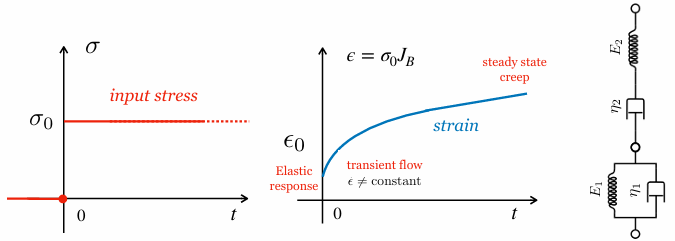
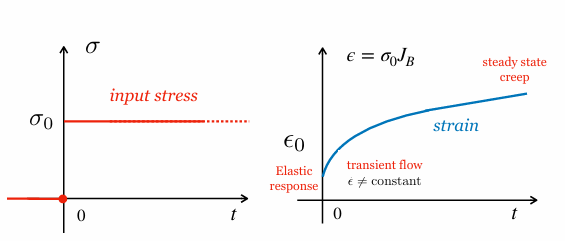
fixes; new images

diff --git a/main.tex b/main.tex
@@ -1667,7 +1667,7 @@ Il termine deriva dal greco e indica lo studio di flussi e deformazioni dei mate
 
 \noindent
 Il concetto di corpo rigido fu introdotto da Archimede, ma trova la sua formalizzazione matematica con Newton nel 1687.
-Hooke definì le basi dell'elasticità (1678), mentre Bernoulli ed Eulero iniziarono a descrivere i fluidi invisicidi (1800s)
+Hooke definì le basi dell'elasticità (1678), mentre Bernoulli ed Eulero iniziarono a descrivere i fluidi invisicidi (1800s).
 Successivamente furono studiati fluidi e materiali viscoelastici, fino all'avvento della reologia nel 1929.\\
 
 \noindent
@@ -1719,7 +1719,7 @@ La forma generale delle equazioni costitutive mette in relazione le quantità ci
 dove $R$ rappresenta la funzione reologica, $\varepsilon$ lo strain, $\sigma$ lo stress ed $\{M\}$ il vettore di parametri materiali.
 Queste relazioni si ottengono da evidenze sperimentali e da principi fisici.
 La classificazione di un materiale in classi reologiche (come elstico, plastico o viscoso) riflette il tipo di equazione reologica che lo descrive.
-si distinguono diversi comportamenti reologici.
+Si distinguono diversi comportamenti reologici.
 
 \begin{table}[h]
     \centering
@@ -1873,6 +1873,8 @@ Il comportamento elastico è valido esclusivamente al di sotto di una sollecitaz
 Superata questa soglia, il materiale devia dalla linearità; per cui questa legge non spiega tutta la reologia.
 La "costante" di proporzionalità $E$ (modulo di Young) in realtà aumenta con la pressione e diminuisce con la temperatura.
 Il corpo elastico non subisce rilassamento.\\
+
+\noindent
 La litosfera superiore può essere modellata come un corpo elastico per carichi superficiali con durata dell'ordine di milioni di anni, sebbene la sua risposta reale sia viscoelastica.
 Al contrario, tutta la Terra si comporta elasticamente (con imperfezioni) per carichi di breve durata (dai secondi alle ore),
 il che rende la sismologia adatta ad un'analisi di tipo elastico.\\
@@ -2160,7 +2162,7 @@ Tale principio risulta evidente applicando le trasformate di Laplace.\\
 
 \noindent
 $\sigma (t) = \sigma_0 H(t) \Longrightarrow \tilde{\sigma} = \sigma_0 / s$.
-Si ricava la \textit{creep compliance}, cioè lo strain per unità di stress in un esperimento di creep, che dipende dalla natura reologica del corpo:
+Si ricava la \textbf{creep compliance} $\tilde J_M$, cioè lo strain per unità di stress in un esperimento di creep, che dipende dalla natura reologica del corpo:
 
 \begin{equation}
     \frac{\tilde{\varepsilon}}{\sigma_0} = \frac{1}{s \tilde{E}_M} \equiv \tilde{J}_M
@@ -2260,6 +2262,8 @@ Dall'antitrasformata di Laplace di questa relazione, si ottiene:
 
 \noindent
 \textbf{Tempo di rilassamento di Maxwell della Terra}\\
+
+\noindent
 Il tempo di rilassamento di Maxwell della Terra è così dato dalla stima della viscosità derivante dagli studi del rimbalzo post-glaciale e dall'elasticità data dal modello PREM:
 
 \begin{equation}
@@ -2274,6 +2278,7 @@ Si può così definire il \textbf{numero di Deborah} (dal nome della profetessa 
 
 \begin{equation}
     De = \frac{\tau_{rel}}{\tau_{exp}} = \frac{\text{tempo di rilassamento}}{\text{tempo scala dell'esperimento}}
+    \label{eq:deborah}
 \end{equation}
 
 \noindent
@@ -2320,7 +2325,7 @@ Vale il principio di corrispondenza della viscoelasticità lineare, come nel cas
 \textbf{Creep test per un corpo di Kelvin-Voigt}\\
 
 \noindent
-$\sigma(t) = \sigma_0 H(t) \Longrightarrow \tilde{\sigma} / s$.
+$\sigma(t) = \sigma_0 H(t) \Longrightarrow \tilde{\sigma} = \sigma_0 / s$.
 La creep compliance del corpo di Kelvin-Voigt è data da:
 
 \begin{equation}
@@ -2330,7 +2335,7 @@ La creep compliance del corpo di Kelvin-Voigt è data da:
 \noindent Sostituendo, si ha:
 
 \begin{equation}
-    \tilde{E}_K = \eta \left( s + \frac{1}{\tau_K} \right) \Longrightarrow \tilde{J}_K = \frac{1}{\eta} \cdot \frac{1}{s} \cdot \left( \frac{1}{s + 1/\tau_K} \right)
+    \tilde{E}_K = \eta \left( s + \frac{1}{\tau_K} \right) \Longrightarrow \tilde{J}_K = \frac{1}{\eta s} \left( \frac{1}{s + 1/\tau_K} \right)
 \end{equation}
 
 \noindent Per ottenere la creep compliance nel dominio temporale, è necessario applicare il teorema di convoluzione al prodotto di due trasformate di Laplace.
@@ -2517,9 +2522,16 @@ con $n$ un intero o $n=\infty$.
 Questo modello tiene conto del fatto che il tempo di rilassamento non avviene ad un singolo tempo.
 Prevede una risposta iniziale elastica, un periodo di transizione ed una fase stazionaria.\\
 
-\noindent
+\subsection{\textcolor{colore7}{Modello di Burgers}}
+
 Il \textbf{modello di Burgers} ($M - KV$) mostra un comportamento iniziale elastico, seguito da un creep transiente e da uno smorzamento delle vibrazioni su scale temporali ridotte, mentre su quelle più lunghe tende a mostrare un comportamento viscoelastico lineare.
-Si utilizza spesso per modellare la reologia del mantello.\\
+Si utilizza spesso per modellare la reologia del mantello.
+
+\begin{figure}[h!]
+    \centering
+    \includegraphics[width=0.5\linewidth]{fig/burgers_body.png}
+    \caption{Analogo meccanico del modello di Burgers.}
+\end{figure}
 
 \noindent
 \textbf{Creep test per il modello di Burgers}\\
@@ -2559,7 +2571,6 @@ con $G_1$, $G_2$, $\tau_1$ e $\tau_2$ costanti positive determinate dai parametr
     \label{fig:burgers_relaxation}
 \end{figure}
 
-\newpage
 \noindent
 \textbf{Loading/unloading test per il modello di Burgers}\\
 
@@ -2866,7 +2877,7 @@ Diverse combinazioni di reologia e glaceoisostasia fittano le stesse osservazion
 
 \subsection{\textcolor{colore7}{Motivazione}}
 
-La superficie terrestre è sottoposta al carico della massa dell'atmosfera, degli oceani e dei continenti; questi possono variare nel tempo e causare una risposta elastica o viscoelastica, a seconda del numero di Deborah.
+La superficie terrestre è sottoposta al carico della massa dell'atmosfera, degli oceani e dei continenti; questi possono variare nel tempo e causare una risposta elastica o viscoelastica, a seconda del numero di Deborah (Eq. \ref{eq:deborah}).
 Terremoti, eruzioni vulcaniche, moti mareali e frane possono variare il carico sulla superficie.\\
 
 \noindent
@@ -2895,9 +2906,10 @@ dove $P$ rappresenta il carico e $R = \sqrt{r^2 + z^2}$.
 \end{figure}
 
 \noindent
-In questo modello compressibile, la componente verticale è sempre positiva,
-quindi, con un sistema di riferimento con asse $z$ come quello in Figura \ref{fig:boussinesq}, la componente verticale è diretta verso il basso.
-La deformazione in direzione radiale è negativa, quindi avviene verso il centro.\\
+Si calcolano le deformazioni sulla superficie $(z = 0)$ in questo modello compressibile (Figura \ref{fig:boussinesq}).
+La componente verticale $u_z$ è sempre positiva, quindi diretta verso il basso: non c'è nessun \textit{forebulge}, ovvero una deformazione verso l'alto.
+La deformazione in direzione radiale $u_r$ è negativa, quindi avviene verso il centro.
+Per $x \rightarrow 0$ c'è una singolarità.\\
 
 \noindent
 Il problema di Kelvin coinvolge un carico puntiforme su corpo elastico infinito;
@@ -2918,7 +2930,7 @@ Coi modelli di Farrell e di Boussinesq si modella il rimbalzo post-glaciale.
 \subsection{\textcolor{colore7}{Topografia, livello marino e distribuzione di acqua e ghiaccio}}
 
 Si può caratterizzare una distribuzione superficiale di massa grazie alle \textbf{funzione oceano},
-definita a partire dallo spessore del ghiaccio $I(\gamma, t)$ e dalla topografia $T(\gamma, t)$:
+definita a partire dallo \textbf{spessore del ghiaccio} $I(\gamma, t)$ e dalla \textbf{topografia} $T(\gamma, t)$:
 
 \begin{equation}
     \mathcal{O}(\gamma,t) \equiv \begin{cases}
@@ -2958,8 +2970,9 @@ Si hanno cinque possibilità per i valori della funzione oceano, illustrati nell
 \textbf{Ghiaccio galleggiante} $\mathcal{O} = 1$ ($I>0$ e $T<0$)\\
 
 \noindent
-Per principio di isostasia tutte le colonne devono avere la stessa massa: $\rho^w B(\gamma, t) = \rho^i I + \rho^w y$ (Figura \ref{fig:floating_ice}.)
-Segue che $T(\gamma, t) + \frac{\rho^i}{\rho^w} I(\gamma, t) < 0$, quindi il ghiaccio è più leggero della colonna d'acqua: $\mathcal{O} = 1$ e $\mathcal{C} = 0$.\\
+Per principio di isostasia tutte le colonne devono avere la stessa massa: $\rho^w B(\gamma, t) = \rho^i I + \rho^w y$ (Figura \ref{fig:floating_ice}),
+con $y$ lo spessore dello strato d'acqua sotto la colonna di ghiaccio.
+Dato che $y > 0$, segue che $T(\gamma, t) + \frac{\rho^i}{\rho^w} I(\gamma, t) < 0$, quindi il ghiaccio è più leggero della colonna d'acqua: $\mathcal{O} = 1$ e $\mathcal{C} = 0$.\\
 
 \begin{figure}[h!]
     \centering
@@ -3166,7 +3179,7 @@ associati alle variazioni dello spessore del ghiaccio, del livello del mare e de
 
 \begin{figure}[h!]
     \centering
-    \includegraphics[width=0.5\linewidth]{fig/mass_conservation_01.png}
+    \includegraphics[width=0.6\linewidth]{fig/mass_conservation_01.png}
     \caption{Conservazione della massa.}
 \end{figure}
 
@@ -3184,7 +3197,7 @@ In forma integrale
 che si può esprimere anche tramite la media della variazione del carico superficiale sulla superficie della Terra:
 
 \begin{equation}
-    <\mathcal{L}(\gamma, t) >^e = \equiv \frac{1}{A^e} \int_e \mathcal{L}(\gamma, t) dA
+    \langle \mathcal{L}(\gamma, t) \rangle^e \equiv \frac{1}{A^e} \int_e \mathcal{L}(\gamma, t) dA
 \end{equation}
 
 \noindent
@@ -3192,7 +3205,7 @@ Con $A^e = \int_e dA = 4\pi a^2$ l'area della superficie terrestre.
 Grazie allo sviluppo in funzioni armoniche, inoltre, vale:
 
 \begin{equation}
-    F(\gamma, t) = \sum_{lm} F_{lm} (t) \mathcal{Y}_{lm}(\gamma) \Longrightarrow <F(\gamma, t)> = \frac{1}{4\pi} \int_\gamma F(\gamma, t) dA = F_{00}(t)
+    F(\gamma, t) = \sum_{lm} F_{lm} (t) \mathcal{Y}_{lm}(\gamma) \quad \Longrightarrow \quad \langle F(\gamma, t)\rangle = \frac{1}{4\pi} \int_\gamma F(\gamma, t) dA = F_{00}(t)
 \end{equation}
 
 \noindent
@@ -3264,19 +3277,22 @@ I modelli 1D sono abbastanza realistici se le discrepanze sono poco rilevanti.
 Le assunzioni di base sono:
 
 \begin{enumerate}
-    \item Terra isotropa, autogravitante (il campo gravitazionale non cambia) e incomprimibile;
+    \item Terra isotropa, autogravitante (il campo gravitazionale non cambia) e incomprimibile, quindi si assume che il volume non cambia;
     \item nucleo fluido, uniforme e inviscido;
-    \item mantello con reologia viscoelastica di Maxwell;
-    \item litosfera elastica.
+    \item mantello stratificato sfericamente e con reologia viscoelastica di Maxwell;
+    \item litosfera elastica e di spessore uniforme.
 \end{enumerate}
 
 \noindent
-Questi modelli sono detti 1D perché, data la simmetria sferica, i parametri reologici dipendono solo dal raggio $r$.
+Questi modelli sono detti 1D perché, data la simmetria sferica, i parametri reologici $\eta$, le costanti di Lame $\lambda$ e $\mu$ e la densità $\rho$ dipendono solo dal raggio $r$.
 Tuttavia, dato che il carico superficiale è distribuito in maniera non uniforme, la risposta dei modelli 1D deve essere tridimensionale e dipendente dal tempo.\\
 
 \noindent
 Il vantaggio di questi modelli è l'esistenza di soluzioni analitiche ben note.
-A partire da tali assunzioni è poi possibile complicare i modelli considerando stratificazioni e comprimibilità, per esempio usando il modello \textit{viscoelastic normal mode theory}.
+Ad esempio, per i modelli 1D GIA (Aggiustamento Isostatico Glaciale), la risposta della Terra è ben descritta dai numeri di Love,
+per i quali sono disponibili soluzioni a forma chiusa.
+A partire da tali assunzioni è poi possibile complicare i modelli includendo la stratificazione e la comprimibilità ed escludendo l'autogravitazione,
+usando ad esempio la teoria dei \textit{modi normali viscoelastici}.
 
 \subsubsection{\textcolor{colore7}{Funzione diretta di Green (Terra rigida)}}
 
@@ -3349,7 +3365,7 @@ Dove i coefficienti armonici $\varphi _l^r \equiv \frac{ag}{m^e}$ sono uguali: l
 
 \subsubsection{\textcolor{colore7}{Funzioni di Green incrementali (Terra elastica)}}
 
-Se la Terra è deformabile, la variazione della distribuzione di massa aggiunge un \textit{contributo indiretto} alla variazione del potenziale gravitazionale,
+Se la Terra è deformabile, la variazione della distribuzione di massa aggiunge un \textbf{contributo indiretto} alla variazione del potenziale gravitazionale,
 per cui la funzione di Green corrispondente si può esprimere tramite la seguente espansione:
 
 \begin{equation}
@@ -3402,7 +3418,7 @@ Per una Terra rigida si avrebbe $(h,k,l)_l^{L,e} \equiv 0$, mentre per una elast
 
 \subsubsection{\textcolor{colore7}{Numeri di Love elastici}}
 
-I numeri di Love $(h, k, l)$ sono parametri adimensionali che misurano la suscettibilità della forma di un corpo planetario a un potenziale perturbativo.
+I numeri di Love $(h, k, l)$ sono parametri adimensionali che misurano la suscettibilità della forma di un corpo planetario a un potenziale perturbativo (originariamente mareale).
 Introdotti originariamente da Love (1909) per la risposta elastica globale alle maree, il termine può indicare:
 
 \begin{itemize}
